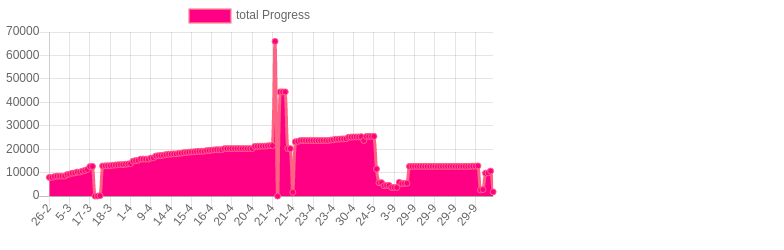
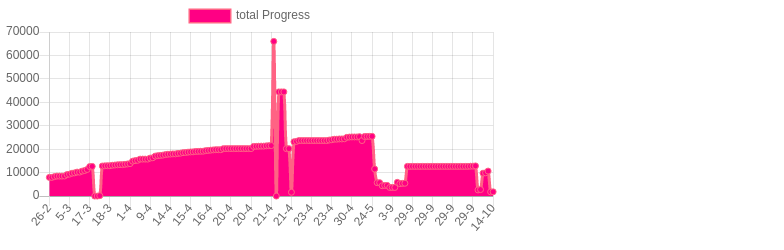
mode denti code

Changed region(s): [[0.1224, 0.14, 0.6429, 0.924], [0.0918, 0.868, 0.1224, 0.896]]

diff --git a/total.html b/total.html
@@ -9,7 +9,7 @@
         <script src="https://cdn.jsdelivr.net/npm/chart.js@2.8.0"></script>
         <script>
           var ctx = document.getElementById("total").getContext("2d");
-          const goLabelsDates = ["2021-02-27T01:37:43.112Z","2021-02-27T01:38:01.628Z","2021-03-01T13:41:18.753Z","2021-03-01T14:53:41.991Z","2021-03-01T15:08:00.851Z","2021-03-01T15:09:10.635Z","2021-03-01T15:22:55.385Z","2021-03-03T15:31:41.151Z","2021-03-05T14:02:13.446Z","2021-03-10T14:50:13.297Z","2021-03-11T01:54:03.424Z","2021-03-11T15:32:47.647Z","2021-03-11T16:01:51.191Z","2021-03-12T00:36:04.646Z","2021-03-13T00:14:58.179Z","2021-03-16T05:30:04.043Z","2021-03-17T21:17:52.181Z","2021-03-18T03:42:56.998Z","2021-03-18T03:44:29.834Z","2021-03-18T03:45:35.160Z","2021-03-18T03:45:54.668Z","2021-03-18T03:48:46.007Z","2021-03-18T05:10:54.427Z","2021-03-18T05:44:13.724Z","2021-03-18T05:56:11.032Z","2021-03-18T22:11:28.339Z","2021-03-19T11:28:55.383Z","2021-03-22T13:51:43.977Z","2021-03-23T01:52:09.452Z","2021-03-23T15:45:53.765Z","2021-03-24T01:46:02.104Z","2021-03-30T10:56:50.711Z","2021-04-01T15:03:17.764Z","2021-04-01T23:15:02.096Z","2021-04-07T19:21:55.040Z","2021-04-08T15:21:14.479Z","2021-04-09T23:17:58.037Z","2021-04-09T23:32:26.341Z","2021-04-09T23:34:42.049Z","2021-04-09T23:36:18.092Z","2021-04-10T01:45:40.218Z","2021-04-12T15:41:26.676Z","2021-04-14T02:00:41.039Z","2021-04-14T20:02:44.141Z","2021-04-14T21:14:15.821Z","2021-04-14T22:06:37.573Z","2021-04-14T22:42:14.693Z","2021-04-14T23:10:13.243Z","2021-04-14T23:22:54.824Z","2021-04-14T23:49:37.009Z","2021-04-15T02:28:51.974Z","2021-04-15T14:33:50.618Z","2021-04-15T15:09:11.104Z","2021-04-15T20:35:30.580Z","2021-04-16T00:04:33.158Z","2021-04-16T01:36:06.294Z","2021-04-16T01:53:35.992Z","2021-04-16T02:00:15.474Z","2021-04-16T16:08:40.977Z","2021-04-16T16:27:06.953Z","2021-04-16T16:59:30.526Z","2021-04-16T17:00:53.737Z","2021-04-16T23:14:36.283Z","2021-04-17T00:39:16.890Z","2021-04-17T01:11:09.986Z","2021-04-17T01:32:30.011Z","2021-04-17T01:44:22.446Z","2021-04-17T01:44:33.941Z","2021-04-17T02:35:55.774Z","2021-04-19T15:41:31.091Z","2021-04-20T15:32:32.239Z","2021-04-20T15:33:16.014Z","2021-04-20T15:36:11.438Z","2021-04-20T15:38:44.606Z","2021-04-20T15:41:50.350Z","2021-04-20T15:44:34.448Z","2021-04-20T15:46:49.295Z","2021-04-20T15:47:24.048Z","2021-04-20T15:56:22.046Z","2021-04-20T16:00:02.540Z","2021-04-20T16:01:15.511Z","2021-04-20T23:19:23.938Z","2021-04-21T00:40:54.443Z","2021-04-21T00:47:22.662Z","2021-04-21T02:01:09.006Z","2021-04-21T02:19:22.734Z","2021-04-21T15:53:36.038Z","2021-04-21T16:21:45.704Z","2021-04-21T16:26:32.790Z","2021-04-21T16:40:24.916Z","2021-04-21T16:43:40.235Z","2021-04-21T16:43:59.719Z","2021-04-21T16:44:40.304Z","2021-04-21T16:46:13.191Z","2021-04-21T16:48:41.898Z","2021-04-21T16:49:08.753Z","2021-04-21T16:50:32.397Z","2021-04-21T16:51:58.778Z","2021-04-23T00:49:32.826Z","2021-04-23T15:03:06.320Z","2021-04-23T15:04:13.039Z","2021-04-23T15:05:25.923Z","2021-04-23T15:11:04.285Z","2021-04-23T15:11:38.826Z","2021-04-23T15:12:05.618Z","2021-04-23T15:12:32.508Z","2021-04-23T15:13:17.058Z","2021-04-23T17:08:27.046Z","2021-04-23T18:02:30.357Z","2021-04-23T22:58:36.946Z","2021-04-23T23:00:26.027Z","2021-04-23T23:52:58.438Z","2021-04-24T01:12:51.525Z","2021-04-24T02:01:46.612Z","2021-04-26T12:46:47.336Z","2021-04-26T13:13:50.946Z","2021-04-26T13:16:04.473Z","2021-04-27T00:11:42.582Z","2021-04-30T03:26:37.101Z","2021-04-30T04:33:42.472Z","2021-04-30T05:15:42.646Z","2021-04-30T14:31:10.927Z","2021-05-04T01:51:49.907Z","2021-05-21T00:30:21.777Z","2021-05-24T15:07:09.579Z","2021-05-24T15:08:05.658Z","2021-05-24T15:22:20.903Z","2021-05-24T15:33:34.626Z","2021-05-24T15:46:16.101Z","2021-05-24T15:48:12.171Z","2021-05-24T15:53:54.498Z","2021-05-24T15:56:18.488Z","2021-05-28T22:50:32.914Z","2021-06-02T17:58:30.866Z","2021-07-01T05:04:25.826Z","2021-07-01T05:05:33.079Z","2021-09-03T16:56:54.023Z","2021-09-23T00:10:19.737Z","2021-09-23T00:54:30.987Z","2021-09-25T00:13:33.106Z","2021-09-25T00:56:09.874Z","2021-09-29T20:37:10.460Z","2021-09-29T20:39:45.107Z","2021-09-29T20:45:08.406Z","2021-09-29T20:45:42.995Z","2021-09-29T20:51:54.166Z","2021-09-29T21:04:45.487Z","2021-09-29T21:22:49.580Z","2021-09-29T21:23:34.860Z","2021-09-29T21:24:52.804Z","2021-09-29T21:25:12.938Z","2021-09-29T21:31:41.466Z","2021-09-29T21:32:02.856Z","2021-09-29T21:32:15.096Z","2021-09-29T21:37:01.273Z","2021-09-29T21:39:46.109Z","2021-09-29T21:40:23.862Z","2021-09-29T21:41:38.242Z","2021-09-29T21:45:36.053Z","2021-09-29T21:48:31.229Z","2021-09-29T21:49:46.414Z","2021-09-29T21:50:16.628Z","2021-09-29T21:52:23.035Z","2021-09-29T21:58:46.153Z","2021-09-29T21:59:06.075Z","2021-09-29T22:09:34.545Z","2021-09-29T22:24:59.487Z","2021-09-29T22:39:38.616Z","2021-09-29T23:07:40.178Z","2021-10-01T13:21:48.217Z","2021-10-01T14:11:47.682Z","2021-10-05T00:24:42.303Z","2021-10-05T14:36:34.233Z","2021-10-05T15:30:47.628Z","2021-10-13T14:16:32.194Z","2021-10-14T20:31:14.540Z",];
+          const goLabelsDates = ["2021-02-27T01:37:43.112Z","2021-02-27T01:38:01.628Z","2021-03-01T13:41:18.753Z","2021-03-01T14:53:41.991Z","2021-03-01T15:08:00.851Z","2021-03-01T15:09:10.635Z","2021-03-01T15:22:55.385Z","2021-03-03T15:31:41.151Z","2021-03-05T14:02:13.446Z","2021-03-10T14:50:13.297Z","2021-03-11T01:54:03.424Z","2021-03-11T15:32:47.647Z","2021-03-11T16:01:51.191Z","2021-03-12T00:36:04.646Z","2021-03-13T00:14:58.179Z","2021-03-16T05:30:04.043Z","2021-03-17T21:17:52.181Z","2021-03-18T03:42:56.998Z","2021-03-18T03:44:29.834Z","2021-03-18T03:45:35.160Z","2021-03-18T03:45:54.668Z","2021-03-18T03:48:46.007Z","2021-03-18T05:10:54.427Z","2021-03-18T05:44:13.724Z","2021-03-18T05:56:11.032Z","2021-03-18T22:11:28.339Z","2021-03-19T11:28:55.383Z","2021-03-22T13:51:43.977Z","2021-03-23T01:52:09.452Z","2021-03-23T15:45:53.765Z","2021-03-24T01:46:02.104Z","2021-03-30T10:56:50.711Z","2021-04-01T15:03:17.764Z","2021-04-01T23:15:02.096Z","2021-04-07T19:21:55.040Z","2021-04-08T15:21:14.479Z","2021-04-09T23:17:58.037Z","2021-04-09T23:32:26.341Z","2021-04-09T23:34:42.049Z","2021-04-09T23:36:18.092Z","2021-04-10T01:45:40.218Z","2021-04-12T15:41:26.676Z","2021-04-14T02:00:41.039Z","2021-04-14T20:02:44.141Z","2021-04-14T21:14:15.821Z","2021-04-14T22:06:37.573Z","2021-04-14T22:42:14.693Z","2021-04-14T23:10:13.243Z","2021-04-14T23:22:54.824Z","2021-04-14T23:49:37.009Z","2021-04-15T02:28:51.974Z","2021-04-15T14:33:50.618Z","2021-04-15T15:09:11.104Z","2021-04-15T20:35:30.580Z","2021-04-16T00:04:33.158Z","2021-04-16T01:36:06.294Z","2021-04-16T01:53:35.992Z","2021-04-16T02:00:15.474Z","2021-04-16T16:08:40.977Z","2021-04-16T16:27:06.953Z","2021-04-16T16:59:30.526Z","2021-04-16T17:00:53.737Z","2021-04-16T23:14:36.283Z","2021-04-17T00:39:16.890Z","2021-04-17T01:11:09.986Z","2021-04-17T01:32:30.011Z","2021-04-17T01:44:22.446Z","2021-04-17T01:44:33.941Z","2021-04-17T02:35:55.774Z","2021-04-19T15:41:31.091Z","2021-04-20T15:32:32.239Z","2021-04-20T15:33:16.014Z","2021-04-20T15:36:11.438Z","2021-04-20T15:38:44.606Z","2021-04-20T15:41:50.350Z","2021-04-20T15:44:34.448Z","2021-04-20T15:46:49.295Z","2021-04-20T15:47:24.048Z","2021-04-20T15:56:22.046Z","2021-04-20T16:00:02.540Z","2021-04-20T16:01:15.511Z","2021-04-20T23:19:23.938Z","2021-04-21T00:40:54.443Z","2021-04-21T00:47:22.662Z","2021-04-21T02:01:09.006Z","2021-04-21T02:19:22.734Z","2021-04-21T15:53:36.038Z","2021-04-21T16:21:45.704Z","2021-04-21T16:26:32.790Z","2021-04-21T16:40:24.916Z","2021-04-21T16:43:40.235Z","2021-04-21T16:43:59.719Z","2021-04-21T16:44:40.304Z","2021-04-21T16:46:13.191Z","2021-04-21T16:48:41.898Z","2021-04-21T16:49:08.753Z","2021-04-21T16:50:32.397Z","2021-04-21T16:51:58.778Z","2021-04-23T00:49:32.826Z","2021-04-23T15:03:06.320Z","2021-04-23T15:04:13.039Z","2021-04-23T15:05:25.923Z","2021-04-23T15:11:04.285Z","2021-04-23T15:11:38.826Z","2021-04-23T15:12:05.618Z","2021-04-23T15:12:32.508Z","2021-04-23T15:13:17.058Z","2021-04-23T17:08:27.046Z","2021-04-23T18:02:30.357Z","2021-04-23T22:58:36.946Z","2021-04-23T23:00:26.027Z","2021-04-23T23:52:58.438Z","2021-04-24T01:12:51.525Z","2021-04-24T02:01:46.612Z","2021-04-26T12:46:47.336Z","2021-04-26T13:13:50.946Z","2021-04-26T13:16:04.473Z","2021-04-27T00:11:42.582Z","2021-04-30T03:26:37.101Z","2021-04-30T04:33:42.472Z","2021-04-30T05:15:42.646Z","2021-04-30T14:31:10.927Z","2021-05-04T01:51:49.907Z","2021-05-21T00:30:21.777Z","2021-05-24T15:07:09.579Z","2021-05-24T15:08:05.658Z","2021-05-24T15:22:20.903Z","2021-05-24T15:33:34.626Z","2021-05-24T15:46:16.101Z","2021-05-24T15:48:12.171Z","2021-05-24T15:53:54.498Z","2021-05-24T15:56:18.488Z","2021-05-28T22:50:32.914Z","2021-06-02T17:58:30.866Z","2021-07-01T05:04:25.826Z","2021-07-01T05:05:33.079Z","2021-09-03T16:56:54.023Z","2021-09-23T00:10:19.737Z","2021-09-23T00:54:30.987Z","2021-09-25T00:13:33.106Z","2021-09-25T00:56:09.874Z","2021-09-29T20:37:10.460Z","2021-09-29T20:39:45.107Z","2021-09-29T20:45:08.406Z","2021-09-29T20:45:42.995Z","2021-09-29T20:51:54.166Z","2021-09-29T21:04:45.487Z","2021-09-29T21:22:49.580Z","2021-09-29T21:23:34.860Z","2021-09-29T21:24:52.804Z","2021-09-29T21:25:12.938Z","2021-09-29T21:31:41.466Z","2021-09-29T21:32:02.856Z","2021-09-29T21:32:15.096Z","2021-09-29T21:37:01.273Z","2021-09-29T21:39:46.109Z","2021-09-29T21:40:23.862Z","2021-09-29T21:41:38.242Z","2021-09-29T21:45:36.053Z","2021-09-29T21:48:31.229Z","2021-09-29T21:49:46.414Z","2021-09-29T21:50:16.628Z","2021-09-29T21:52:23.035Z","2021-09-29T21:58:46.153Z","2021-09-29T21:59:06.075Z","2021-09-29T22:09:34.545Z","2021-09-29T22:24:59.487Z","2021-09-29T22:39:38.616Z","2021-09-29T23:07:40.178Z","2021-10-01T13:21:48.217Z","2021-10-01T14:11:47.682Z","2021-10-05T00:24:42.303Z","2021-10-05T14:36:34.233Z","2021-10-05T15:30:47.628Z","2021-10-13T14:16:32.194Z","2021-10-14T20:31:14.540Z","2021-10-15T02:04:50.667Z",];
           var chart = new Chart(ctx, {
             type: 'line',
             data: {
@@ -18,7 +18,7 @@
                 label: 'total Progress',
                 backgroundColor: 'rgb(255, 0, 132)',
                 borderColor: 'rgb(255, 99, 132)',
-                data: [7975,7975,8307,8526,8526,8527,8573,9171,9358,9751,9908,10232,10231,10643,10911,11353,12576,12666,0,0,169,12835,12906,12953,12953,13141,13254,13354,13406,13417,13568,13708,13845,14886,15140,15267,15766,15777,15777,15777,16211,16345,17062,17247,17324,17464,17697,17849,17916,18002,18002,18202,18292,18515,18590,18744,18837,18876,19030,19086,19114,19143,19378,19465,19607,19714,19782,19782,19791,20220,20257,20257,20257,20257,20257,20257,20257,20257,20257,20257,20257,21179,21238,21279,21319,21319,21430,21506,21543,65995,0,44452,44452,44452,20233,20233,1629,23172,23326,23693,23693,23693,23693,23693,23693,23693,23693,23693,23693,23693,23693,23905,24023,24262,24275,24376,24376,24452,25078,25182,25238,25232,25233,25334,23696,25427,25453,25466,25491,11565,5707,5707,4421,4535,4535,3678,3678,3678,5861,5318,5422,5473,12667,12667,12667,12667,12667,12667,12667,12667,12667,12667,12667,12667,12667,12667,12667,12667,12667,12667,12658,12658,12657,12657,12657,12657,12683,12736,12779,12888,2619,2775,9772,9922,10674,1795,]
+                data: [7975,7975,8307,8526,8526,8527,8573,9171,9358,9751,9908,10232,10231,10643,10911,11353,12576,12666,0,0,169,12835,12906,12953,12953,13141,13254,13354,13406,13417,13568,13708,13845,14886,15140,15267,15766,15777,15777,15777,16211,16345,17062,17247,17324,17464,17697,17849,17916,18002,18002,18202,18292,18515,18590,18744,18837,18876,19030,19086,19114,19143,19378,19465,19607,19714,19782,19782,19791,20220,20257,20257,20257,20257,20257,20257,20257,20257,20257,20257,20257,21179,21238,21279,21319,21319,21430,21506,21543,65995,0,44452,44452,44452,20233,20233,1629,23172,23326,23693,23693,23693,23693,23693,23693,23693,23693,23693,23693,23693,23693,23905,24023,24262,24275,24376,24376,24452,25078,25182,25238,25232,25233,25334,23696,25427,25453,25466,25491,11565,5707,5707,4421,4535,4535,3678,3678,3678,5861,5318,5422,5473,12667,12667,12667,12667,12667,12667,12667,12667,12667,12667,12667,12667,12667,12667,12667,12667,12667,12667,12658,12658,12657,12657,12657,12657,12683,12736,12779,12888,2619,2775,9772,9922,10674,1795,1824,]
               }]
             },
           });

diff --git a/denti-code.html b/denti-code.html
@@ -9,7 +9,7 @@
         <script src="https://cdn.jsdelivr.net/npm/chart.js@2.8.0"></script>
         <script>
           var ctx = document.getElementById("denti-code").getContext("2d");
-          const goLabelsDates = ["2021-03-18T03:42:56.996Z","2021-03-18T03:48:46.006Z","2021-03-18T05:10:54.426Z","2021-03-18T05:44:13.723Z","2021-03-18T05:56:11.031Z","2021-03-18T22:11:28.338Z","2021-03-19T11:28:55.381Z","2021-03-22T13:51:43.975Z","2021-03-23T01:52:09.450Z","2021-03-23T15:45:53.764Z","2021-03-24T01:46:02.102Z","2021-03-30T10:56:50.709Z","2021-04-01T15:03:17.762Z","2021-04-01T23:15:02.094Z","2021-04-07T19:21:55.037Z","2021-04-08T15:21:14.477Z","2021-04-09T23:17:58.034Z","2021-04-09T23:32:26.338Z","2021-04-09T23:34:42.046Z","2021-04-09T23:36:18.090Z","2021-04-10T01:45:40.216Z","2021-04-12T15:41:26.675Z","2021-04-14T02:00:41.038Z","2021-04-14T20:02:44.139Z","2021-04-14T21:14:15.820Z","2021-04-14T22:06:37.572Z","2021-04-14T22:42:14.692Z","2021-04-14T23:10:13.242Z","2021-04-14T23:22:54.823Z","2021-04-14T23:49:37.008Z","2021-04-15T02:28:51.973Z","2021-04-15T14:33:50.618Z","2021-04-15T15:09:11.101Z","2021-04-15T20:35:30.578Z","2021-04-16T00:04:33.156Z","2021-04-16T01:36:06.292Z","2021-04-16T01:53:35.990Z","2021-04-16T02:00:15.472Z","2021-04-16T16:08:40.974Z","2021-04-16T16:27:06.951Z","2021-04-16T16:59:30.523Z","2021-04-16T17:00:53.732Z","2021-04-16T23:14:36.281Z","2021-04-17T00:39:16.887Z","2021-04-17T01:11:09.984Z","2021-04-17T01:32:30.007Z","2021-04-17T01:44:22.441Z","2021-04-17T01:44:33.939Z","2021-04-17T02:35:55.772Z","2021-04-19T15:41:31.089Z","2021-04-20T15:32:32.237Z","2021-04-20T15:33:16.012Z","2021-04-20T15:36:11.437Z","2021-04-20T15:38:44.604Z","2021-04-20T15:41:50.349Z","2021-04-20T15:44:34.447Z","2021-04-20T15:46:49.293Z","2021-04-20T15:47:24.046Z","2021-04-20T15:56:22.045Z","2021-04-20T16:00:02.538Z","2021-04-20T16:01:15.510Z","2021-04-20T23:19:23.936Z","2021-04-21T00:40:54.441Z","2021-04-21T00:47:22.661Z","2021-04-21T02:01:09.004Z","2021-04-21T02:19:22.733Z","2021-04-21T15:53:36.036Z","2021-04-21T16:21:45.702Z","2021-04-21T16:26:32.788Z","2021-04-21T16:40:24.915Z","2021-04-21T16:51:58.776Z","2021-04-23T00:49:32.825Z","2021-04-23T15:03:06.327Z","2021-04-23T15:04:13.043Z","2021-04-23T15:05:25.920Z","2021-04-23T15:13:17.062Z","2021-04-23T17:08:27.042Z","2021-04-23T18:02:30.351Z","2021-04-23T22:58:36.942Z","2021-04-23T23:00:26.024Z","2021-04-23T23:52:58.435Z","2021-04-24T01:12:51.523Z","2021-04-24T02:01:46.608Z","2021-04-26T12:46:47.335Z","2021-04-26T13:13:50.942Z","2021-04-26T13:16:04.469Z","2021-04-27T00:11:42.578Z","2021-04-30T03:26:37.095Z","2021-04-30T04:33:42.471Z","2021-04-30T05:15:42.643Z","2021-04-30T14:31:10.924Z","2021-05-04T01:51:49.904Z","2021-05-21T00:30:21.766Z","2021-05-24T15:07:09.569Z","2021-05-24T15:08:05.654Z","2021-05-24T15:22:20.898Z","2021-05-24T15:33:34.622Z","2021-05-24T15:46:16.098Z","2021-05-24T15:48:12.169Z","2021-05-24T15:53:54.497Z","2021-05-24T15:56:18.483Z","2021-10-14T20:31:14.535Z",];
+          const goLabelsDates = ["2021-03-18T03:42:56.996Z","2021-03-18T03:48:46.006Z","2021-03-18T05:10:54.426Z","2021-03-18T05:44:13.723Z","2021-03-18T05:56:11.031Z","2021-03-18T22:11:28.338Z","2021-03-19T11:28:55.381Z","2021-03-22T13:51:43.975Z","2021-03-23T01:52:09.450Z","2021-03-23T15:45:53.764Z","2021-03-24T01:46:02.102Z","2021-03-30T10:56:50.709Z","2021-04-01T15:03:17.762Z","2021-04-01T23:15:02.094Z","2021-04-07T19:21:55.037Z","2021-04-08T15:21:14.477Z","2021-04-09T23:17:58.034Z","2021-04-09T23:32:26.338Z","2021-04-09T23:34:42.046Z","2021-04-09T23:36:18.090Z","2021-04-10T01:45:40.216Z","2021-04-12T15:41:26.675Z","2021-04-14T02:00:41.038Z","2021-04-14T20:02:44.139Z","2021-04-14T21:14:15.820Z","2021-04-14T22:06:37.572Z","2021-04-14T22:42:14.692Z","2021-04-14T23:10:13.242Z","2021-04-14T23:22:54.823Z","2021-04-14T23:49:37.008Z","2021-04-15T02:28:51.973Z","2021-04-15T14:33:50.618Z","2021-04-15T15:09:11.101Z","2021-04-15T20:35:30.578Z","2021-04-16T00:04:33.156Z","2021-04-16T01:36:06.292Z","2021-04-16T01:53:35.990Z","2021-04-16T02:00:15.472Z","2021-04-16T16:08:40.974Z","2021-04-16T16:27:06.951Z","2021-04-16T16:59:30.523Z","2021-04-16T17:00:53.732Z","2021-04-16T23:14:36.281Z","2021-04-17T00:39:16.887Z","2021-04-17T01:11:09.984Z","2021-04-17T01:32:30.007Z","2021-04-17T01:44:22.441Z","2021-04-17T01:44:33.939Z","2021-04-17T02:35:55.772Z","2021-04-19T15:41:31.089Z","2021-04-20T15:32:32.237Z","2021-04-20T15:33:16.012Z","2021-04-20T15:36:11.437Z","2021-04-20T15:38:44.604Z","2021-04-20T15:41:50.349Z","2021-04-20T15:44:34.447Z","2021-04-20T15:46:49.293Z","2021-04-20T15:47:24.046Z","2021-04-20T15:56:22.045Z","2021-04-20T16:00:02.538Z","2021-04-20T16:01:15.510Z","2021-04-20T23:19:23.936Z","2021-04-21T00:40:54.441Z","2021-04-21T00:47:22.661Z","2021-04-21T02:01:09.004Z","2021-04-21T02:19:22.733Z","2021-04-21T15:53:36.036Z","2021-04-21T16:21:45.702Z","2021-04-21T16:26:32.788Z","2021-04-21T16:40:24.915Z","2021-04-21T16:51:58.776Z","2021-04-23T00:49:32.825Z","2021-04-23T15:03:06.327Z","2021-04-23T15:04:13.043Z","2021-04-23T15:05:25.920Z","2021-04-23T15:13:17.062Z","2021-04-23T17:08:27.042Z","2021-04-23T18:02:30.351Z","2021-04-23T22:58:36.942Z","2021-04-23T23:00:26.024Z","2021-04-23T23:52:58.435Z","2021-04-24T01:12:51.523Z","2021-04-24T02:01:46.608Z","2021-04-26T12:46:47.335Z","2021-04-26T13:13:50.942Z","2021-04-26T13:16:04.469Z","2021-04-27T00:11:42.578Z","2021-04-30T03:26:37.095Z","2021-04-30T04:33:42.471Z","2021-04-30T05:15:42.643Z","2021-04-30T14:31:10.924Z","2021-05-04T01:51:49.904Z","2021-05-21T00:30:21.766Z","2021-05-24T15:07:09.569Z","2021-05-24T15:08:05.654Z","2021-05-24T15:22:20.898Z","2021-05-24T15:33:34.622Z","2021-05-24T15:46:16.098Z","2021-05-24T15:48:12.169Z","2021-05-24T15:53:54.497Z","2021-05-24T15:56:18.483Z","2021-10-14T20:31:14.535Z","2021-10-15T02:04:50.663Z",];
           var chart = new Chart(ctx, {
             type: 'line',
             data: {
@@ -18,7 +18,7 @@
                 label: 'denti-code Progress',
                 backgroundColor: 'rgb(255, 0, 132)',
                 borderColor: 'rgb(255, 99, 132)',
-                data: [0,169,240,287,287,475,588,607,607,618,618,618,618,618,618,618,618,618,618,618,618,618,618,618,618,618,618,618,618,618,618,618,618,618,618,618,618,618,618,618,618,618,618,618,618,618,618,618,618,618,618,618,618,618,618,618,618,618,618,618,618,618,618,618,658,658,674,674,674,674,674,674,674,674,674,674,674,674,674,674,674,674,674,674,674,674,756,1382,1486,1542,1542,1542,1638,0,1731,1731,1731,1731,1731,1731,1731,1795,]
+                data: [0,169,240,287,287,475,588,607,607,618,618,618,618,618,618,618,618,618,618,618,618,618,618,618,618,618,618,618,618,618,618,618,618,618,618,618,618,618,618,618,618,618,618,618,618,618,618,618,618,618,618,618,618,618,618,618,618,618,618,618,618,618,618,618,658,658,674,674,674,674,674,674,674,674,674,674,674,674,674,674,674,674,674,674,674,674,756,1382,1486,1542,1542,1542,1638,0,1731,1731,1731,1731,1731,1731,1731,1795,1824,]
               }]
             },
           });

diff --git a/Readme.md b/Readme.md
@@ -1,11 +1,11 @@
 # All count
 |Language|Goal|Lines%|%|%|%|Subjects|
 |----------|-------|-------|--------|--------|--------|--------|
-|denti-code|2000|1795|90|![denti-code](https://raw.githubusercontent.com/kapit4n/l-10000-dev/master/denti-code.png)|react,, hooks|App, App, App, Nav, logo, reportWebVitals, requeriments, setupTests, Readme, app, breadcrumb, www, client files, doctors, records, users, 20210323105958 create user, 20210427012229 create doctor, 20210428201240 create record, 20210430033210 create client file, clientfile, doctor, record, user, client files, clients, doctors, records, users, 20210323105420 demo user, node, index mount, index shallow, main, record popup, main, main, main|
-|TOTAL|1795|17.950%|
+|denti-code|2000|1824|91|![denti-code](https://raw.githubusercontent.com/kapit4n/l-10000-dev/master/denti-code.png)|react,, hooks|App, App, App, Nav, logo, reportWebVitals, requeriments, setupTests, Readme, app, breadcrumb, www, client files, doctors, patients, records, 20210323105958 create user, 20210427012229 create doctor, 20210428201240 create record, 20210430033210 create client file, clientfile, doctor, patient, record, client files, clients, doctors, patients, records, 20210323105420 demo user, node, main, main, main, index mount, index shallow, main, record popup|
+|TOTAL|1824|18.240%|
 10/02(0)
 
-10/03(1795)
+10/03(1824)
 
 
   # run it
@@ -28,4 +28,4 @@
   * Angular, React, Vue
   * Spring, Play
   * Scala, Java
-  , 2021-10-14T20:31:14.540Z
+  , 2021-10-15T02:04:50.668Z
